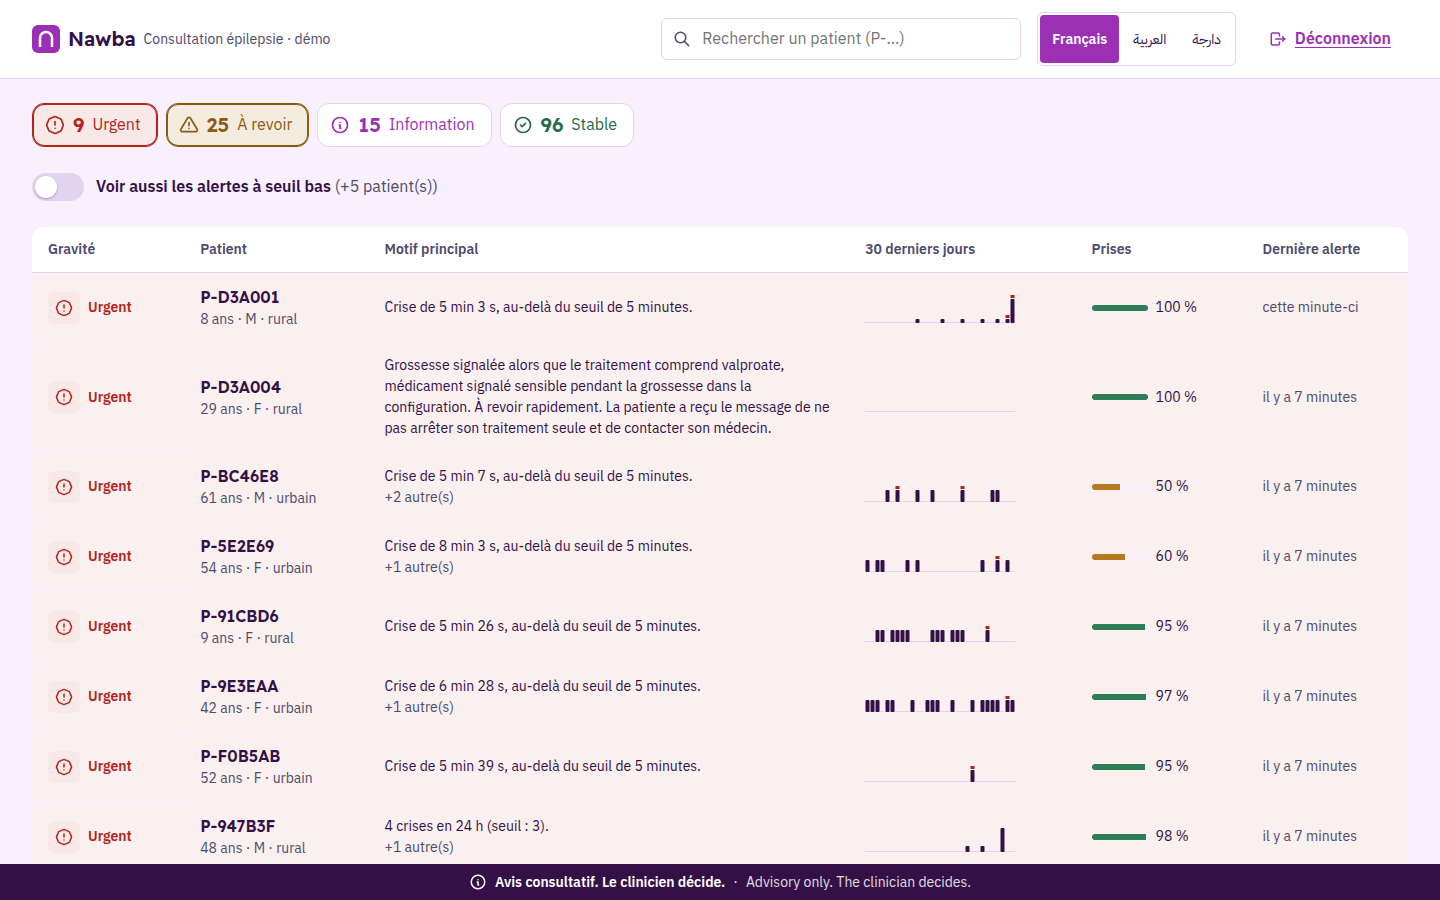
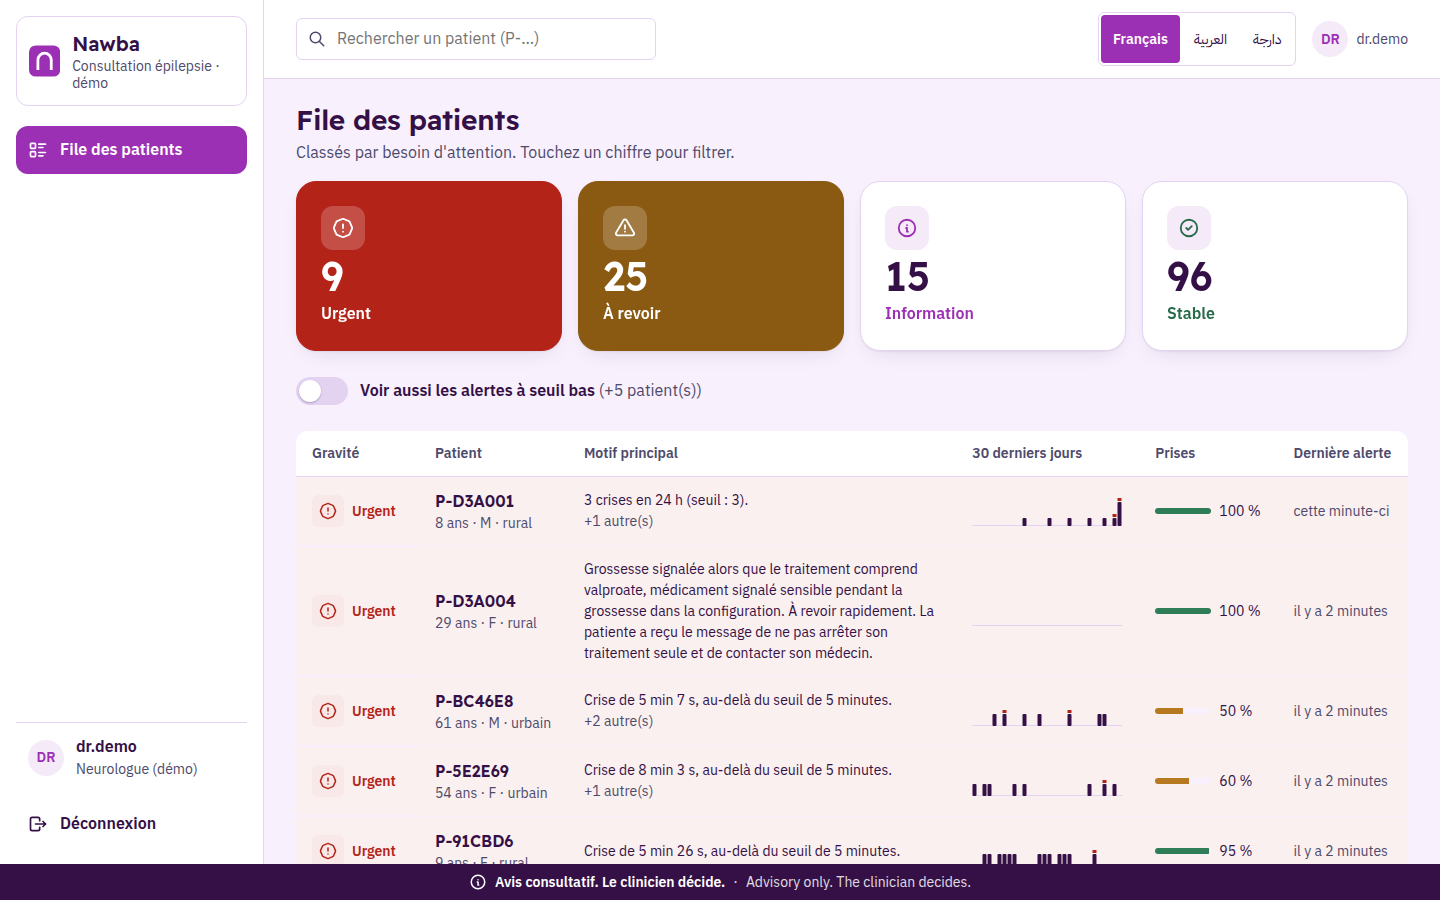
Dashboard shell inspired by the team's P-Guard screens: sidebar, user chip, KPI filter cards, patient context bar + KPI row, status pills
- severity KPI cards fill with the tier ink colour when selected (AA)
- patient KPIs: seizures 30 d (arrow + words vs previous 30 d), doses taken, open alerts, risk band
- sidebar hides under 900 px; all test selectors kept
- verified on a fresh stack: e2e, demo_check, a11y 0/0, landing check, 31 backend + 5 frontend tests

diff --git a/frontend/src/clinic/App.jsx b/frontend/src/clinic/App.jsx
@@ -50,7 +50,9 @@ export default function App() {
   const [lang, setLang] = useState(localStorage.getItem("nawba.clinic.lang") || "fr");
   const [view, setView] = useState(null);
   const [search, setSearch] = useState("");
+  const [me, setMe] = useState(null);
   const L = (k, v) => t(lang, k, v);
+  useEffect(() => { if (api.loggedIn()) api.get("/me").then(setMe).catch(() => {}); }, []);
   useEffect(() => {
     localStorage.setItem("nawba.clinic.lang", lang);
     document.documentElement.dir = dir(lang);
@@ -71,24 +73,43 @@ export default function App() {
   );
 
   if (!api.loggedIn()) return <Login L={L} langSwitch={langSwitch} advisory={advisory} />;
+  const logout = () => { api.logout(); window.location.reload(); };
   return (
-    <div className="clinic">
-      <header className="c-top">
-        <span className="brand"><Logo />Nawba <small>{L("c_clinic")}</small></span>
-        <label className="c-search">
-          <span className="visually-hidden">{L("c_search")}</span>
-          <Icon name="search" size={18} />
-          <input className="input" placeholder={L("c_search")} value={search}
-                 onChange={(e) => { setSearch(e.target.value.toUpperCase()); setView(null); }} />
-        </label>
-        {langSwitch}
-        <button className="btn btn-quiet" onClick={() => { api.logout(); window.location.reload(); }}>
-          <Icon name="logout" size={18} />{L("c_logout")}
-        </button>
-      </header>
-      <main className="c-main">
-        {view ? <Detail L={L} lang={lang} id={view} back={() => setView(null)} /> : <Queue L={L} lang={lang} search={search} open={setView} />}
-      </main>
+    <div className="clinic shell">
+      <aside className="side" aria-label={L("c_nav")}>
+        <div className="side-brand"><Logo /><span><b>Nawba</b><small>{L("c_clinic")}</small></span></div>
+        <nav className="side-nav">
+          <button className="side-link" aria-current={!view ? "page" : undefined} onClick={() => setView(null)}>
+            <Icon name="list-details" size={20} />{L("c_nav_queue")}
+          </button>
+          {view && (
+            <button className="side-link side-sub" aria-current="page">
+              <Icon name="user" size={20} />{L("c_nav_patient", { id: view })}
+            </button>
+          )}
+        </nav>
+        <div className="side-user">
+          <span className="avatar" aria-hidden="true">{(me?.username || "?").slice(0, 2).toUpperCase()}</span>
+          <span><b>{me?.username || "…"}</b><small>{L("c_role_clinician")}</small></span>
+        </div>
+        <button className="side-link" onClick={logout}><Icon name="logout" size={20} />{L("c_logout")}</button>
+      </aside>
+      <div className="shell-main">
+        <header className="c-top">
+          <label className="c-search">
+            <span className="visually-hidden">{L("c_search")}</span>
+            <Icon name="search" size={18} />
+            <input className="input" placeholder={L("c_search")} value={search}
+                   onChange={(e) => { setSearch(e.target.value.toUpperCase()); setView(null); }} />
+          </label>
+          {langSwitch}
+          <span className="user-chip"><span className="avatar" aria-hidden="true">{(me?.username || "?").slice(0, 2).toUpperCase()}</span>{me?.username}</span>
+          <button className="btn btn-quiet top-logout" onClick={logout}><Icon name="logout" size={18} />{L("c_logout")}</button>
+        </header>
+        <main className="c-main">
+          {view ? <Detail L={L} lang={lang} id={view} back={() => setView(null)} /> : <Queue L={L} lang={lang} search={search} open={setView} />}
+        </main>
+      </div>
       {advisory}
     </div>
   );
@@ -138,10 +159,16 @@ function Queue({ L, lang, search, open }) {
   const shown = rows.filter((r) => (search ? r.id.includes(search) : filter.has(r.tier) || (sensitive && r.sensitive_only)));
   return (
     <>
-      <div className="summary" role="group" aria-label={L("c_severity")}>
+      <header className="page-head">
+        <h1>{L("c_queue_title")}</h1>
+        <p className="muted">{L("c_queue_sub")}</p>
+      </header>
+      <div className="kpis" role="group" aria-label={L("c_severity")}>
         {Object.keys(TIERS).map((k) => (
-          <button key={k} className={`sev-${k}`} aria-pressed={filter.has(k)} onClick={() => toggle(k)}>
-            <Icon name={TIERS[k].icon} /><span className="count">{counts[k]}</span><span>{L(TIERS[k].key)}</span>
+          <button key={k} className={`kpi kpi-filter tier-${k}`} aria-pressed={filter.has(k)} onClick={() => toggle(k)}>
+            <span className="kpi-chip"><Icon name={TIERS[k].icon} size={22} /></span>
+            <span className="kpi-value num">{counts[k]}</span>
+            <span className="kpi-label">{L(TIERS[k].key)}</span>
           </button>
         ))}
       </div>
@@ -216,24 +243,40 @@ function Detail({ L, lang, id, back }) {
   const worst = ["urgent", "review", "info"].find((tr) => open.some((a) => TIER_OF[a.severity] === tr)) || "stable";
   const triggerCounts = {};
   d.seizures.forEach((s) => s.triggers.forEach((x) => (triggerCounts[x] = (triggerCounts[x] || 0) + 1)));
+  // patient KPIs (computed from the same records the charts use)
+  const DAY = 864e5, now = Date.now();
+  const inDays = (iso, a, b) => { const age = (now - new Date(iso)) / DAY; return age >= a && age < b; };
+  const sz30 = d.seizures.filter((s) => inDays(s.started_at, 0, 30)).length;
+  const szPrev = d.seizures.filter((s) => inDays(s.started_at, 30, 60)).length;
+  const adh = d.adherence.filter((x) => inDays(x.date, 0, 30)).reduce((a, x) => [a[0] + x.taken, a[1] + x.taken + x.missed], [0, 0]);
+  const adhPct = adh[1] ? Math.round((adh[0] / adh[1]) * 100) : null;
 
   return (
     <>
-      <button className="btn btn-quiet back no-print" onClick={back}><Icon name="arrow-left" size={18} />{L("c_back")}</button>
-      <section className="spread">
-        <div>
-          <div className="row">
-            <h1 className="pid">{p.id}</h1>
-            <span className={`tier-badge tier-${worst}`}><Icon name={TIERS[worst].icon} size={16} />{L(TIERS[worst].key)}</span>
-          </div>
-          <p className="muted">{L("c_age_sex", { age: age(p.birth_year), sex: L(`c_${p.sex}`), region: L(`c_${p.region}`) })} · {p.name} · <span className="num">{p.phone}</span></p>
-          <p className="small">{L("c_medication")} : {d.medications.filter((m) => m.active).map((m) => `${m.drug_name} ${m.dose_text} (${m.times.join(", ")})`).join("; ") || "—"}</p>
-        </div>
-        <div className="row no-print">
+      <div className="spread no-print">
+        <button className="btn btn-quiet back" onClick={back}><Icon name="arrow-left" size={18} />{L("c_back")}</button>
+        <div className="row">
           <button className="btn" onClick={() => window.print()}>{L("c_print")}</button>
-          <button className="btn" onClick={() => downloadFhir(id)}><Icon name="download" size={18} />{L("c_fhir")}</button>
+          <button className="btn btn-primary" onClick={() => downloadFhir(id)}><Icon name="download" size={18} />{L("c_fhir")}</button>
         </div>
+      </div>
+      {/* context bar: everything about who this is, on one line */}
+      <section className="context-bar" aria-label={L("c_patient")}>
+        <span className={`sev sev-${worst}`}><span className="dot" aria-hidden="true" />{L(TIERS[worst].key)}</span>
+        <h1 className="pid">{p.id}</h1>
+        <span>{L("c_age_sex", { age: age(p.birth_year), sex: L(`c_${p.sex}`), region: L(`c_${p.region}`) })}</span>
+        <span>{p.name}</span>
+        <span className="num">{p.phone}</span>
+        <span>{L("c_medication")} : {d.medications.filter((m) => m.active).map((m) => `${m.drug_name} ${m.dose_text}`).join("; ") || "—"}</span>
       </section>
+      <div className="kpis">
+        <Kpi icon="wave-sine" label={L("c_kpi_seizures")} value={sz30}
+             delta={szPrev || sz30 ? { up: sz30 > szPrev, text: L("c_vs_before", { n: szPrev }) } : null} />
+        <Kpi icon="pill" label={L("c_kpi_adherence")} value={adhPct == null ? "—" : `${adhPct} %`} tone={adhPct != null && adhPct < 80 ? "review" : null} />
+        <Kpi icon="alert-triangle" label={L("c_kpi_open")} value={open.length} tone={open.length ? worst : null} />
+        <Kpi icon="info-circle" label={L("c_kpi_risk")} value={ins?.risk?.band ? L(`c_band_${ins.risk.band}`) : "—"}
+             tone={{ high: "urgent", medium: "review", low: "stable" }[ins?.risk?.band] || null} />
+      </div>
       <div className="print-only print-notice">
         <p className="strong">{L("c_advisory")}</p>
         {/* F8: every printout carries the review-only notice in the three languages */}
@@ -252,7 +295,7 @@ function Detail({ L, lang, id, back }) {
               <button key={a.id} className={`alert-item tier-${TIER_OF[a.severity]}`} aria-pressed={a.id === sel} onClick={() => setSel(a.id)}>
                 <Severity L={L} tier={TIER_OF[a.severity]} />
                 <span className="stack" style={{ gap: "var(--s-1)" }}>
-                  <b>{L(`type_${a.type}`)}</b>
+                  <span className="row"><b>{L(`type_${a.type}`)}</b><span className="status-pill status-open">{L("c_status_open")}</span></span>
                   {a.reasons.map((r, i) => <span key={i}>{msgText(L, r)}</span>)}
                   <span className="muted small">
                     {L("c_confidence", { c: L(`conf_${a.confidence}`) })} · {notesText(L, a)}
@@ -300,6 +343,18 @@ function Detail({ L, lang, id, back }) {
       </div>
       <Descriptions L={L} seizures={d.seizures.filter((s) => s.description)} categories={cfg?.seizure_categories || []} onDone={load} />
     </>
+  );
+}
+
+// Big-number card with a tinted icon chip; `delta` shows direction with an arrow AND a word, never colour alone.
+function Kpi({ icon, label, value, tone, delta }) {
+  return (
+    <div className={`kpi ${tone ? `tier-${tone}` : ""}`}>
+      <span className="kpi-chip"><Icon name={icon} size={22} /></span>
+      <span className="kpi-label">{label}</span>
+      <span className="kpi-value num">{value}</span>
+      {delta && <span className={`kpi-delta ${delta.up ? "up" : "down"}`}>{delta.up ? "▲" : "▼"} {delta.text}</span>}
+    </div>
   );
 }
 

diff --git a/frontend/src/shared/styles.css b/frontend/src/shared/styles.css
@@ -424,3 +424,79 @@ body.patient .auth { position: relative; z-index: 1; }
 
 /* narrow screens: the bilingual advisory needs two lines; reserve that space so it never covers content */
 @media (max-width: 700px) { :root { --advisory-h: 60px; } }
+
+/* =========================================================================
+   DASHBOARD SHELL (inspired by the team's P-Guard screens: sidebar, KPI cards, context bar)
+   ========================================================================= */
+.shell { display: grid; grid-template-columns: 264px minmax(0, 1fr); background: var(--mist); }
+.side {
+  position: sticky; inset-block-start: 0; block-size: calc(100dvh - var(--advisory-h)); display: flex; flex-direction: column;
+  gap: var(--s-2); padding: var(--s-4); background: var(--surface); border-inline-end: 1px solid var(--line);
+}
+.side-brand { display: flex; align-items: center; gap: var(--s-3); padding: var(--s-3); border: 1px solid var(--line); border-radius: var(--r-md); margin-block-end: var(--s-3); }
+.side-brand svg { inline-size: 36px; block-size: 36px; }
+.side-brand b { display: block; font-family: var(--font-head); font-size: var(--fs-20); }
+.side-brand small { display: block; color: var(--ink-muted); font-size: var(--fs-14); line-height: var(--lh-tight); }
+.side-nav { display: flex; flex-direction: column; gap: var(--s-1); flex: 1; }
+.side-link {
+  display: flex; align-items: center; gap: var(--s-3); min-block-size: var(--target); padding-inline: var(--s-3); border: 0; border-radius: var(--r-md);
+  background: transparent; color: var(--aubergine); font-weight: 600; cursor: pointer; text-align: start; inline-size: 100%;
+}
+.side-link:hover { background: var(--purple-tint); }
+.side-link[aria-current="page"] { background: var(--purple); color: var(--surface); }
+.side-sub { padding-inline-start: var(--s-5); }
+.side-user { display: flex; align-items: center; gap: var(--s-3); padding: var(--s-3); border-block-start: 1px solid var(--line); }
+.side-user b { display: block; } .side-user small { display: block; color: var(--ink-muted); font-size: var(--fs-14); }
+.shell-main { min-inline-size: 0; }
+.shell .c-top { justify-content: flex-end; }
+.shell .c-search { margin-inline-start: 0; margin-inline-end: auto; }
+.user-chip { display: inline-flex; align-items: center; gap: var(--s-2); font-size: var(--fs-14); color: var(--ink-muted); }
+.top-logout { display: none; }
+
+.page-head h1 { font-size: var(--fs-28); }
+.page-head p { margin-block-start: var(--s-1); }
+
+/* KPI cards: big number + tinted icon chip; as filters, the selected card fills with its tier colour */
+.kpis { display: grid; grid-template-columns: repeat(4, minmax(0, 1fr)); gap: var(--s-4); }
+.kpi {
+  --tier: var(--purple); --tier-ink: var(--aubergine); --tier-tint: var(--purple-tint);
+  position: relative; display: grid; grid-template-columns: 1fr auto; grid-template-areas: "label chip" "value chip" "delta delta";
+  align-items: center; gap: var(--s-1) var(--s-3); padding: var(--s-5); border-radius: var(--r-lg); background: var(--surface);
+  border: 1px solid var(--line); text-align: start; color: var(--aubergine); box-shadow: var(--shadow-1);
+}
+.kpi-chip { grid-area: chip; align-self: start; inline-size: 44px; block-size: 44px; border-radius: var(--r-md); display: grid; place-items: center;
+  background: var(--tier-tint); color: var(--tier-ink); }
+.kpi-label { grid-area: label; color: var(--ink-muted); font-weight: 600; }
+.kpi-value { grid-area: value; font-family: var(--font-head); font-size: var(--fs-40); font-weight: 600; line-height: 1.1; }
+.kpi-delta { grid-area: delta; font-size: var(--fs-14); font-weight: 600; }
+.kpi-delta.up { color: var(--urgent); } .kpi-delta.down { color: var(--settled-ink); }
+.kpi.tier-review { --tier-ink: var(--watch-ink); }
+.kpi-filter { cursor: pointer; grid-template-areas: "chip chip" "value value" "label label"; }
+.kpi-filter .kpi-label { color: var(--tier-ink); }
+.kpi-filter:hover { border-color: var(--tier-ink); }
+/* selected = filled; text stays white on the INK shade so it passes AA (white on #B7791F would not) */
+.kpi-filter[aria-pressed="true"] { background: var(--tier-ink); border-color: var(--tier-ink); color: var(--surface); }
+.kpi-filter[aria-pressed="true"] .kpi-label { color: var(--surface); }
+.kpi-filter[aria-pressed="true"] .kpi-chip { background: color-mix(in srgb, var(--surface) 20%, transparent); color: var(--surface); }
+.kpi-filter.tier-urgent { --tier-ink: var(--urgent); } .kpi-filter.tier-info { --tier-ink: var(--purple); }
+.kpi-filter.tier-stable { --tier-ink: var(--settled-ink); }
+
+/* context bar: one line that says who this patient is */
+.context-bar { display: flex; align-items: center; flex-wrap: wrap; gap: var(--s-2) var(--s-4); padding: var(--s-4) var(--s-5);
+  background: var(--surface); border-radius: var(--r-lg); box-shadow: var(--shadow-1); color: var(--ink-muted); }
+.context-bar h1.pid { font-size: var(--fs-20); color: var(--aubergine); }
+.context-bar > * + *:not(h1) { padding-inline-start: var(--s-4); border-inline-start: 1px solid var(--line); }
+.sev .dot { inline-size: 10px; block-size: 10px; border-radius: 50%; background: currentColor; }
+
+/* status pills (alert lifecycle) */
+.status-pill { display: inline-flex; align-items: center; padding: 1px var(--s-2); border-radius: var(--r-pill); border: 1px solid currentColor; font-size: var(--fs-14); font-weight: 600; }
+.status-open { color: var(--watch-ink); }
+
+@media (max-width: 1100px) { .kpis { grid-template-columns: repeat(2, minmax(0, 1fr)); } }
+@media (max-width: 900px) {
+  .shell { grid-template-columns: minmax(0, 1fr); }
+  .side { display: none; }
+  .top-logout { display: inline-flex; }
+  .user-chip { display: none; }
+}
+@media (max-width: 520px) { .kpis { grid-template-columns: minmax(0, 1fr); } .kpi-value { font-size: var(--fs-28); } }

diff --git a/docs/EXPLAIN.md b/docs/EXPLAIN.md
@@ -128,3 +128,8 @@ On phones the panel shrinks to a band above the form and the help link sits unde
 The colours now come from the epilepsy-awareness images the team chose: we sampled their dominant pixels, kept the purples that pass contrast for text (#9C30B4 for buttons and links), used a deep aubergine (#341046) for text and dark panels — a navy from one image looked blue on large areas, so it was replaced — and kept lavender for decoration only.
 Red, amber and green still mean urgent, needs review and stable, so a warning never blends into the brand colour; the small 30-day bars became dark aubergine so the red "above threshold" mark stays visible for colour-blind users.
 The landing page has a "Tarifs (prévus)" section: free for families, free for the pilot hospital during the pilot, and a per-clinic subscription whose price will be set after the pilot; a test fails if any price amount appears there before real prices exist.
+
+## Dashboard layout: sidebar and KPI cards
+The clinician dashboard now has a left sidebar (Nawba card, "File des patients", the patient you opened, and your name with logout at the bottom) and a top bar with search, language and your name — a layout borrowed from the team's P-Guard screens.
+The four severity counts are big cards that you tap to filter; a selected card fills with its colour, using the darker shade so white text stays readable.
+A patient page starts with one line saying who the patient is, then four cards: seizures in 30 days with an arrow and words comparing to the 30 days before, the share of doses taken, open alerts, and the 7-day risk band. Alerts carry an "Ouverte" status pill.

diff --git a/docs/DESIGN_PLAN.md b/docs/DESIGN_PLAN.md
@@ -248,3 +248,11 @@ Severity colours (urgent red, watch amber, settled green) are unchanged so urgen
 Rhythm-strip bars moved from the primary colour to `--aubergine`: purple bars with a red "above threshold" cap were too
 close for red-green colour-blind users. The "seuil bas" / reminder checkboxes became proper toggle switches (48 px
 touch area). Both the app audit (22 screens) and the landing check re-ran with 0 contrast and 0 target failures.
+
+## 8. Dashboard shell inspired by the team's P-Guard screens (2026-10-11)
+Borrowed patterns (no code copied): a left sidebar (brand card, navigation, user block + logout at the bottom), a top
+bar with search, language and a user chip, big-number KPI cards with a tinted icon chip, a one-line context bar on the
+patient page, and outlined status pills. Adapted: the four severity counts are KPI cards that act as filters and fill
+with the tier's INK colour when selected (white on #8A5A12, not on #B7791F, to stay AA); the patient KPI row shows
+seizures in 30 days with an arrow + words versus the previous 30 days, doses taken, open alerts and the 7-day risk band.
+On screens under 900 px the sidebar hides and logout returns to the top bar. App a11y audit: 0 contrast / 0 target failures.

diff --git a/checks.md b/checks.md
@@ -99,3 +99,4 @@ Full suites after F10: 31 backend tests, 5 frontend tests, e2e PASSED and demo_c
 |---|---|---|
 | Pricing section on the landing page | pass | `#tarifs` in `frontend/public/welcome/index.html` (fr + ar), marked planned; `landing_check.mjs` "pricing section: marked as planned, no invented amounts (fr, ar)"; screenshots `docs/ui/landing/*-pricing.png`. |
 | Purple awareness palette | pass | Tokens in `tokens.css` / `landing.css` (DESIGN_PLAN §7, sampled from the reference images); app a11y 0/0 on 22 screens, landing check 0/0, e2e PASSED; screenshots refreshed (`docs/ui/after`, `landing`, `login`). |
+| Dashboard shell (sidebar, KPI cards, context bar, status pills) inspired by P-Guard screens | pass | `frontend/src/clinic/App.jsx` (`Kpi`, `.shell`, `.context-bar`), DESIGN_PLAN §8; fresh stack: e2e PASSED, demo_check PASSED, app a11y 0/0, landing check PASSED, 31 backend tests; screenshots `docs/ui/after/*-c1-queue.png`, `*-c2-detail.png`. |

diff --git a/progress.md b/progress.md
@@ -113,3 +113,8 @@ the jury demo, then ask a native speaker to review `frontend/src/shared/strings.
   age checkbox, dark theme (Nawba palette), image (CSS/SVG arch, offline).
 - Also fixed: bilingual advisory strip overflowed on narrow screens (now grows, padding follows).
 - Verified on a fresh stack: 31 backend + 5 frontend tests, e2e, demo_check, a11y 0/0, landing check.
+
+## Later UI requests (2026-10-11)
+- Purple awareness palette (DESIGN_PLAN §7), navy replaced by aubergine #341046; landing pricing section (planned, no amounts).
+- Dashboard shell from P-Guard inspiration (DESIGN_PLAN §8). Dev server: `/welcome/` and `/clinic` mapped in vite.config.js.
+- Disk: ~460 MB free; each rebuild ~10-20 MB of old image layers that only a human may remove (scripts/disk_report.sh).
